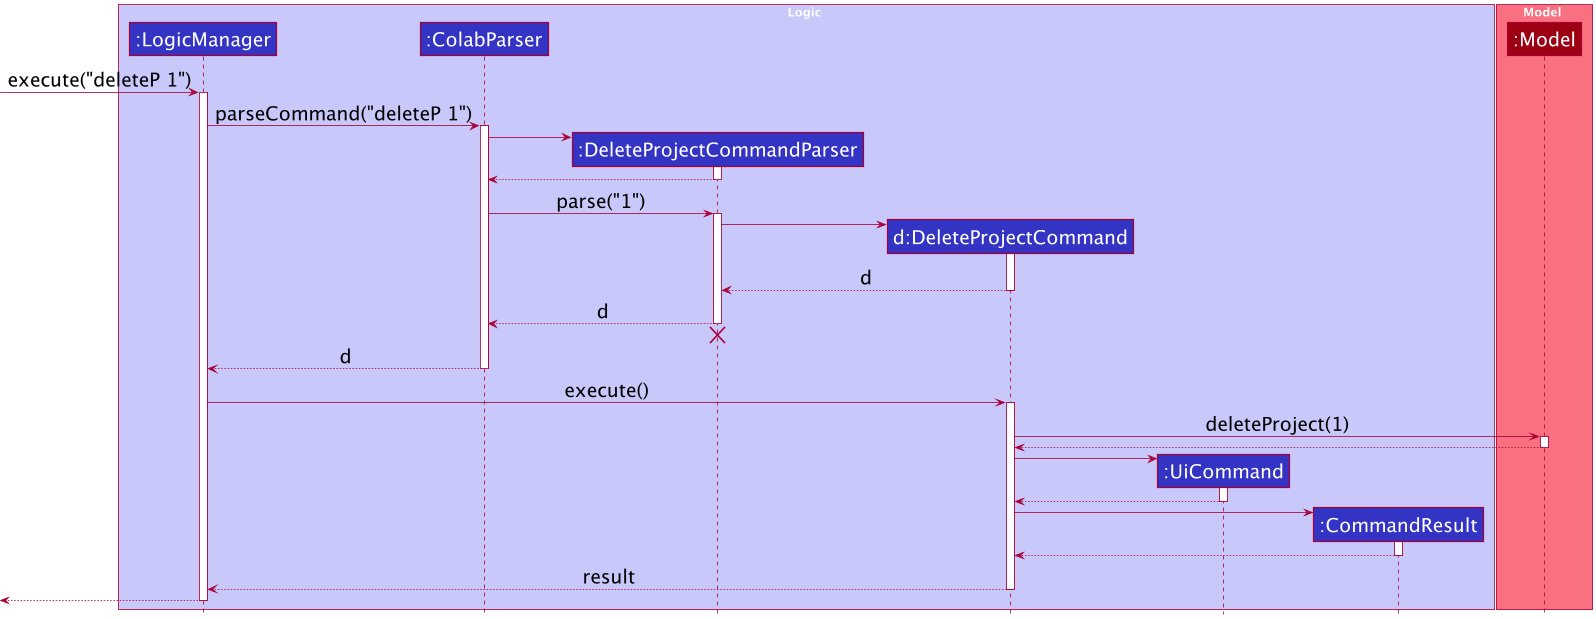
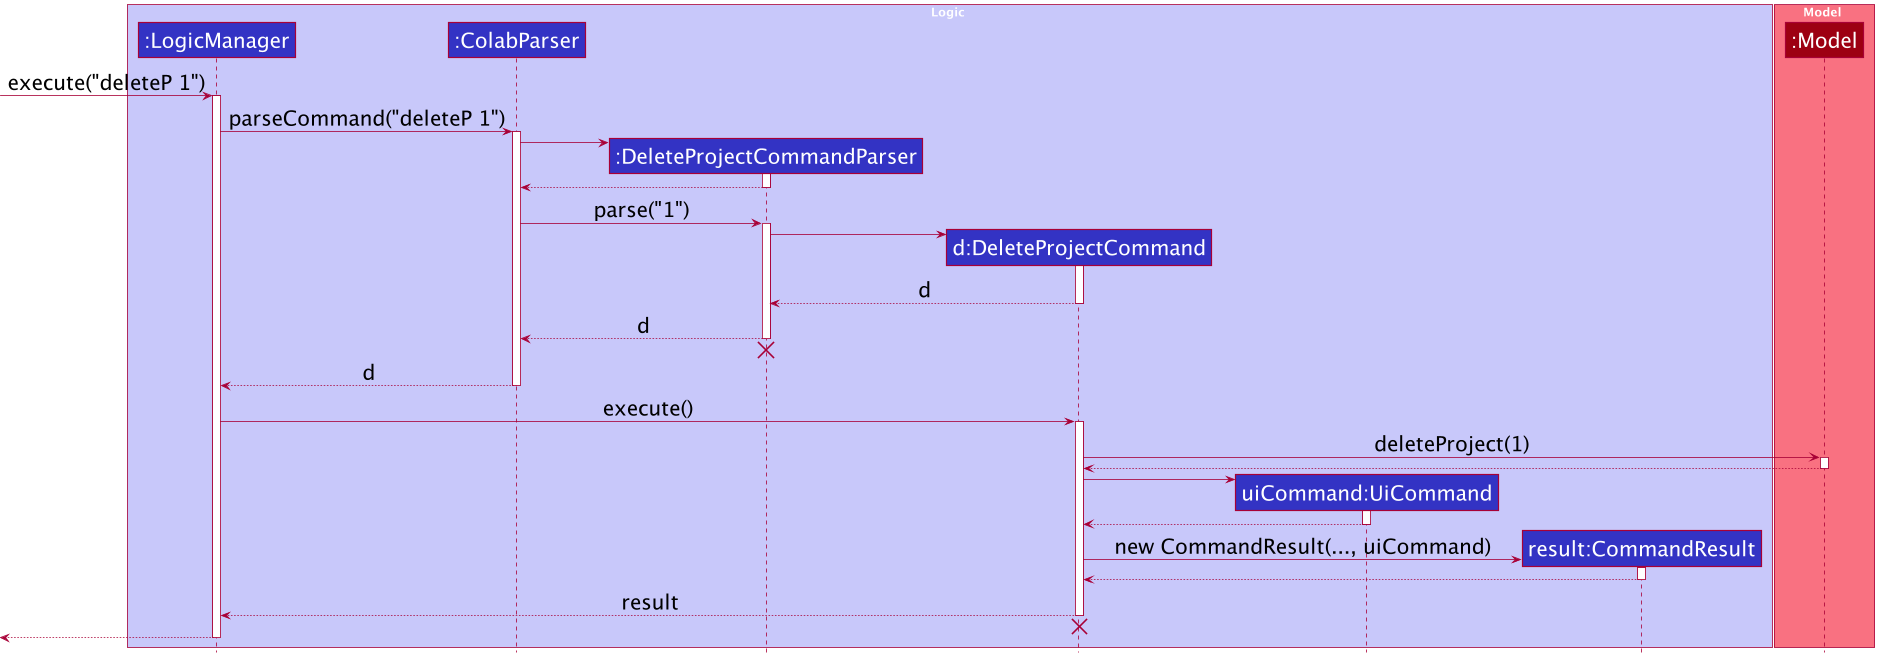
Update diagrams in DG

Changed region(s): [[0.0, 0.0, 1.0, 1.0], [0.3377, 0.8901, 0.3991, 0.9515]]

diff --git a/docs/DeveloperGuide.md b/docs/DeveloperGuide.md
@@ -90,7 +90,7 @@ Given below is the Sequence Diagram for interactions within the `Logic` componen
 
 ![Interactions Inside the Logic Component for the `deleteP 1` Command](images/DeleteSequenceDiagram.png)
 
-<div markdown="span" class="alert alert-info">:information_source: **Note:** The lifeline for `DeleteProjectCommandParser` should end at the destroy marker (X) but due to a limitation of PlantUML, the lifeline reaches the end of diagram.
+<div markdown="span" class="alert alert-info">:information_source: **Note:** The lifeline for `DeleteProjectCommandParser`  and `DeleteProjectCommand` should end at the destroy marker (X) but due to a limitation of PlantUML, the lifeline reaches the end of diagram.
 </div>
 
 ### Model Component
@@ -150,6 +150,9 @@ The mechanism to issue the command to display a new project is facilitated by `V
 Given below is an example usage scenario and how the mechanism behaves at each step.
 
 ![View Project Sequence Diagram](images/ViewProjectCommandSequenceDiagram.png)
+
+<div markdown="span" class="alert alert-info">:information_source: **Note:** The lifeline for `ViewProjectCommand` should end at the destroy marker (X) but due to a limitation of PlantUML, the lifeline reaches the end of diagram.
+</div>
 
 <div style="text-align: left">
 
@@ -324,6 +327,9 @@ The `DeleteTodoCommand` has been successfully created and its execute method wou
 Depicted below is another sequence diagram that shows the interaction between `StorageManager`, `ModelManager`, `LogicManager` and `DeleteTodoCommand`, when `DeleteTodoCommand#execute` is called.
 
 ![Delete Todo Sequence Diagram](images/DeleteTodoSequenceDiagram.png)
+
+<div markdown="span" class="alert alert-info">:information_source: **Note:** The lifeline for `DeleteTodoCommand` should end at the destroy marker (X) but due to a limitation of PlantUML, the lifeline reaches the end of diagram.
+</div>
 
 As shown, the original todo in CoLAB's Model Component has been deleted. Moreover, the updated list of todos has been saved to the Storage Component of CoLAB. As the operation comes to an end, the `CommandResult` object returned is used for UI purposes, where a message is displayed to the user to inform him/her about the status of their input command and the deleted todo.
 
